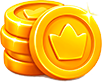
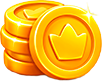
mergescreen sound effects added

Changed region(s): [[0.0882, 0.8537, 0.8235, 1.0], [0.8824, 0.6341, 1.0, 0.878], [0.0588, 0.8293, 0.0882, 0.8537]]

diff --git a/Assets/_Project/Scripts/Board/BoardManager.cs b/Assets/_Project/Scripts/Board/BoardManager.cs
@@ -43,6 +43,12 @@ public sealed class BoardManager : MonoBehaviour
     [SerializeField, Range(0f, 1f)] private float connectedMergeEndAlpha = 0.25f;
     [SerializeField, Range(0.1f, 1f)] private float connectedMergeEndScale = 0.75f;
 
+    [Header("Audio")]
+    [SerializeField] private AudioClip playerPlaceSound;
+    [SerializeField] private AudioClip mergeSound;
+    [SerializeField, Min(0f)] private float mergeSoundDelay = 0.06f;
+    [SerializeField] private AudioClip dynamiteSound;
+
     [Header("Spider Movement")]
     [SerializeField] private bool animateSpiderMovement = true;
     [SerializeField, Min(0f)] private float spiderMoveDuration = 0.18f;
@@ -284,6 +290,7 @@ public sealed class BoardManager : MonoBehaviour
         targetCell.Clear();
         NotifyItemDestroyed(destroyItemData);
         NotifyItemDestroyed(targetItemData);
+        PlayDynamiteSound();
         Destroy(destroyItem.gameObject);
         Destroy(targetItem.gameObject);
         if (targetItemData != null && targetItemData.IsSpider)
@@ -1051,6 +1058,7 @@ public sealed class BoardManager : MonoBehaviour
 
         resultItem.SetData(nextLevelItem);
         mergeResultCell.SetItem(resultItem);
+        PlayMergeSound();
         resultItem.PlayMergePopEffect();
         ApplyAdjacentMergeReactions(mergeResultCell);
         return true;
@@ -1142,6 +1150,8 @@ public sealed class BoardManager : MonoBehaviour
             yield break;
         }
 
+        PlayMergeSound();
+
         if (animateConnectedMerge && connectedMergeMoveDuration > 0f)
         {
             yield return MoveConsumedItemsToResult(consumedItems, resultItem);
@@ -1158,6 +1168,48 @@ public sealed class BoardManager : MonoBehaviour
         mergeResultCell.SetItem(resultItem);
         resultItem.PlayMergePopEffect();
         ApplyAdjacentMergeReactions(mergeResultCell);
+    }
+
+    private void PlayMergeSound()
+    {
+        if (mergeSound == null)
+        {
+            return;
+        }
+
+        if (mergeSoundDelay <= 0f)
+        {
+            UIAudioController.Instance?.PlayUISound(mergeSound);
+            return;
+        }
+
+        StartCoroutine(PlayMergeSoundDelayed(mergeSound, mergeSoundDelay));
+    }
+
+    public void PlayPlayerPlaceSound()
+    {
+        if (playerPlaceSound == null)
+        {
+            return;
+        }
+
+        UIAudioController.Instance?.PlayUISound(playerPlaceSound);
+    }
+
+    private IEnumerator PlayMergeSoundDelayed(AudioClip clip, float delay)
+    {
+        yield return new WaitForSeconds(delay);
+        UIAudioController.Instance?.PlayUISound(clip);
+    }
+
+    private void PlayDynamiteSound()
+    {
+        if (dynamiteSound == null)
+        {
+            return;
+        }
+
+        UIAudioController.Instance?.PlayUISound(dynamiteSound);
     }
 
     private IEnumerator MoveConsumedItemsToResult(List<MergeItem> consumedItems, MergeItem resultItem)

diff --git a/Assets/_Project/Scripts/UI/RewardPopup.cs b/Assets/_Project/Scripts/UI/RewardPopup.cs
@@ -113,11 +113,6 @@ public sealed class RewardPopup : MonoBehaviour, IPointerClickHandler
         pendingCoins = coins;
         pendingStars = stars;
 
-        if (titleText != null)
-        {
-            titleText.text = "Reward";
-        }
-
         if (coinsText != null)
         {
             coinsText.text = coins.ToString();

diff --git a/Assets/_Project/Scripts/Items/ItemDragHandler.cs b/Assets/_Project/Scripts/Items/ItemDragHandler.cs
@@ -151,6 +151,7 @@ public sealed class ItemDragHandler : MonoBehaviour, IBeginDragHandler, IDragHan
                 var didMerge = boardManager.TryMergeWithAdjacentItem(targetCell);
                 if (!didMerge)
                 {
+                    boardManager.PlayPlayerPlaceSound();
                     boardManager.ResolveSpidersAfterPlayerPlacement();
                     boardManager.RefreshOrders();
                 }